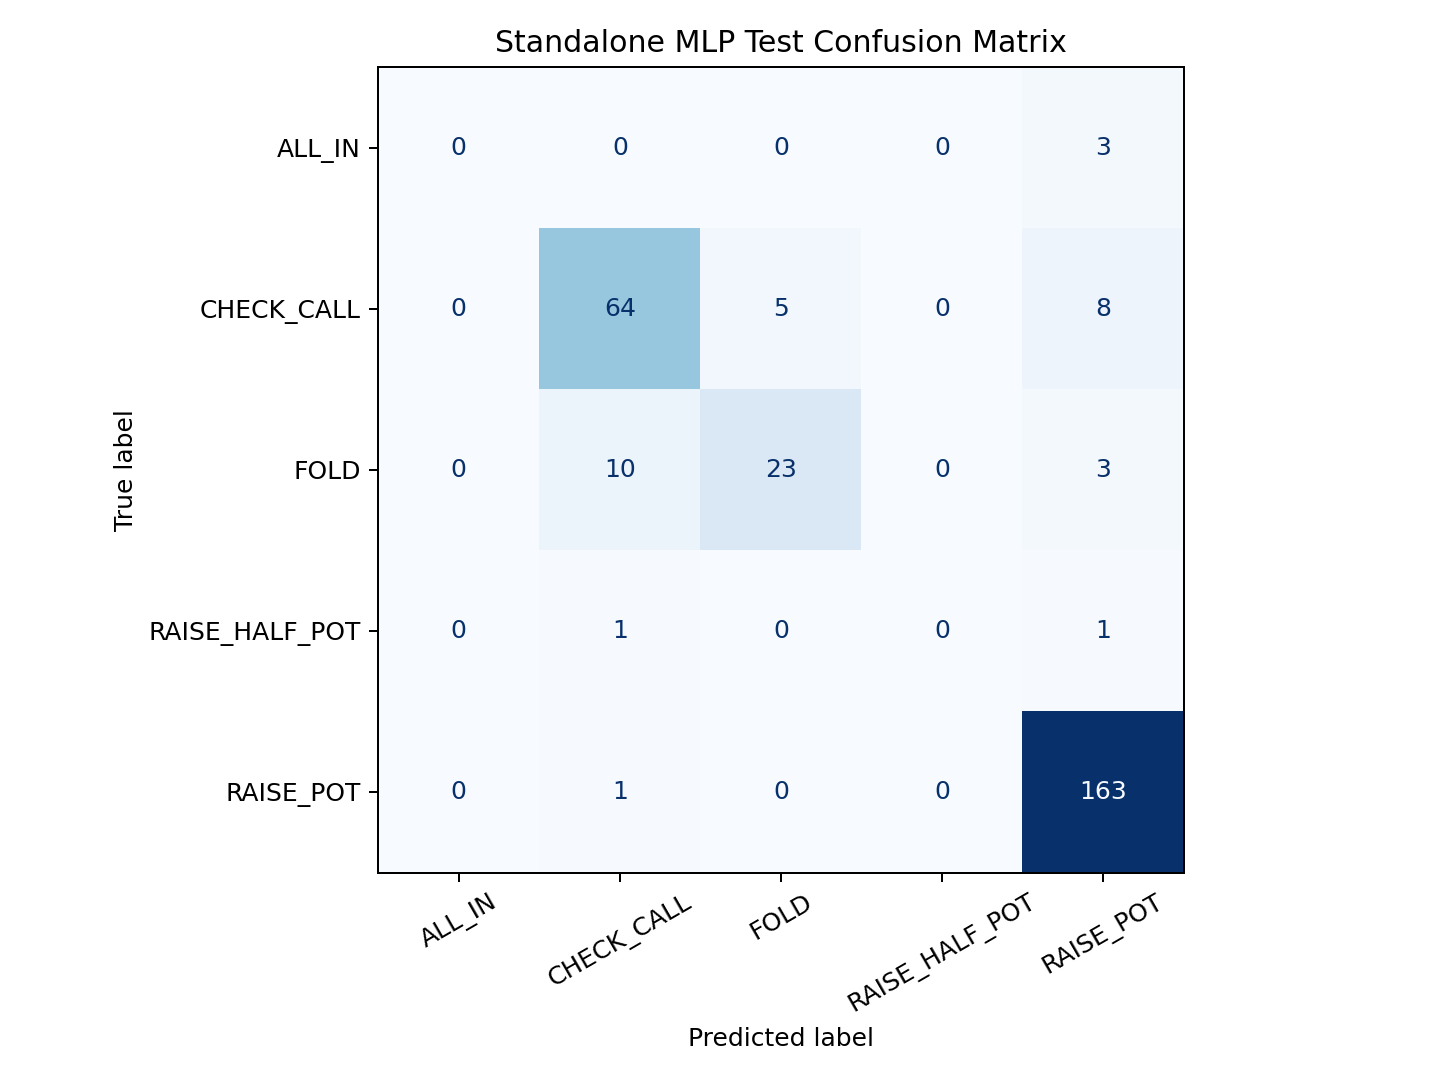
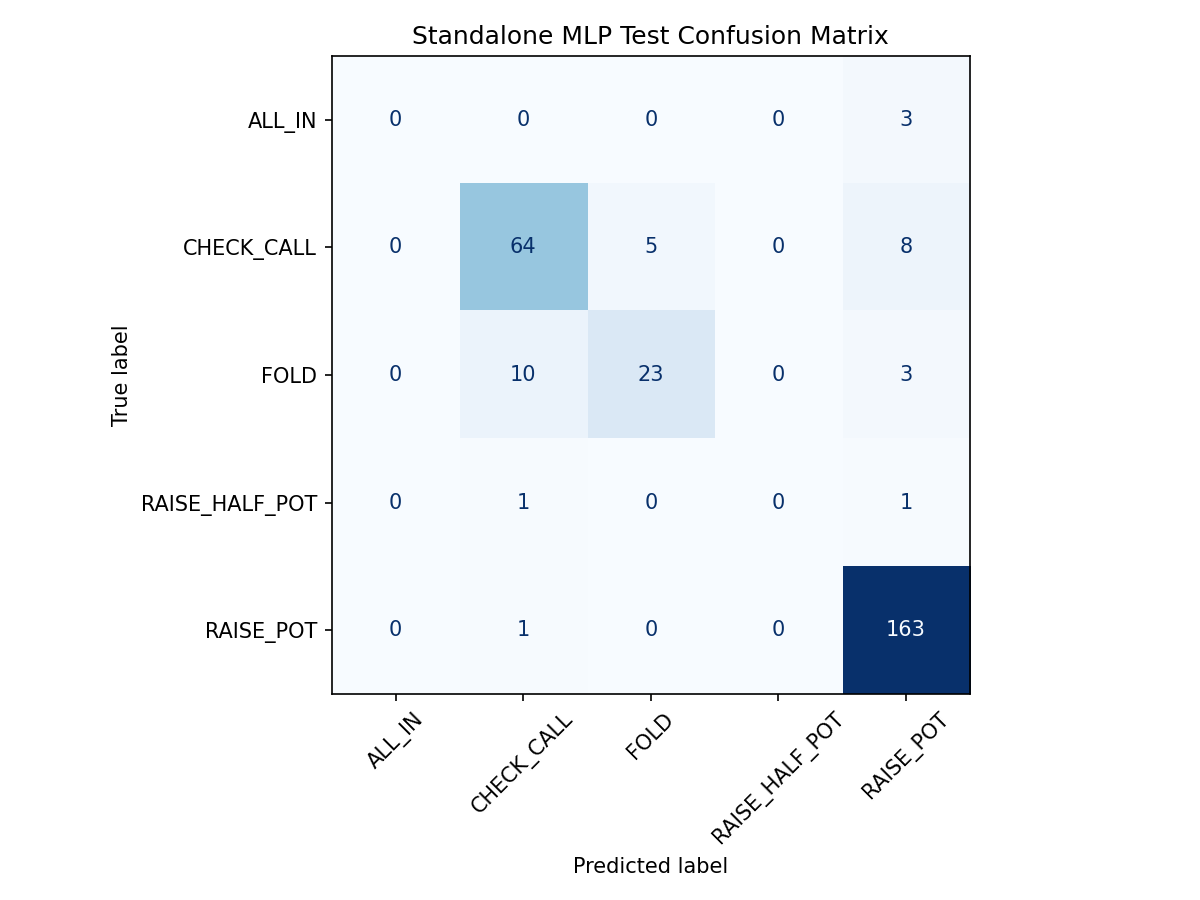
Add MLP artifact generation, grouped split and tuning, make opponent features appendable to phi(state)

diff --git a/classifier.py b/classifier.py
@@ -1,6 +1,14 @@
+import json
+import os
+import sys
+import warnings
+
 import numpy as np
-from sklearn.metrics import accuracy_score, classification_report, confusion_matrix, f1_score
-from sklearn.model_selection import train_test_split
+import sklearn
+from sklearn.exceptions import ConvergenceWarning
+from sklearn.metrics import (accuracy_score, classification_report, confusion_matrix,
+                             ConfusionMatrixDisplay, f1_score)
+from sklearn.model_selection import GridSearchCV, GroupShuffleSplit, train_test_split
 from sklearn.neural_network import MLPClassifier
 from sklearn.pipeline import Pipeline
 from sklearn.preprocessing import StandardScaler
@@ -14,7 +22,7 @@ from agents import RuleBasedAgent
 from match import make_env
 
 
-def collect_data(num_hands=1000, iters=80, seed=0):
+def collect_data(num_hands=1000, iters=80, seed=0, return_groups=False):
     set_seed(seed)
     env = make_env(seed=seed)
     teacher = RuleBasedAgent(iters=iters, seed=seed)
@@ -22,7 +30,8 @@ def collect_data(num_hands=1000, iters=80, seed=0):
     env.set_agents([teacher, opp])
     features = []
     labels = []
-    for _ in range(num_hands):
+    groups = []
+    for hand in range(num_hands):
         state, player = env.reset()
         while not env.is_over():
             agent = env.agents[player]
@@ -30,9 +39,12 @@ def collect_data(num_hands=1000, iters=80, seed=0):
                 features.append(extract_features(state, iters=iters, seed=seed))
                 action = teacher.step(state)
                 labels.append(action.name)
+                groups.append(hand)
             else:
                 action = agent.step(state)
             state, player = env.step(action, agent.use_raw)
+    if return_groups:
+        return np.array(features), np.array(labels), np.array(groups)
     return np.array(features), np.array(labels)
 
 
@@ -53,8 +65,9 @@ def train_classifier(num_hands=1000, iters=80, seed=0):
     return clf
 
 
-def train_mlp_classifier(num_hands=1000, iters=80, seed=0):
-    X, y = collect_data(num_hands=num_hands, iters=iters, seed=seed)
+def train_mlp_classifier(num_hands=1000, iters=80, seed=0, group_split=False,
+                         hidden_layer_sizes=(32,), save=True, out_dir='experiments'):
+    X, y, groups = collect_data(num_hands=num_hands, iters=iters, seed=seed, return_groups=True)
     if X.ndim != 2 or len(X) < 2:
         raise ValueError('MLP training requires at least two feature rows')
 
@@ -71,13 +84,20 @@ def train_mlp_classifier(num_hands=1000, iters=80, seed=0):
         and train_count >= len(classes)
     )
     stratify = y if can_stratify else None
-    X_train, X_test, y_train, y_test = train_test_split(
-        X,
-        y,
-        test_size=test_size,
-        random_state=seed,
-        stratify=stratify,
-    )
+    if group_split:
+        splitter = GroupShuffleSplit(n_splits=1, test_size=test_size, random_state=seed)
+        train_idx, test_idx = next(splitter.split(X, y, groups))
+        X_train, X_test = X[train_idx], X[test_idx]
+        y_train, y_test = y[train_idx], y[test_idx]
+        can_stratify = False
+    else:
+        X_train, X_test, y_train, y_test = train_test_split(
+            X,
+            y,
+            test_size=test_size,
+            random_state=seed,
+            stratify=stratify,
+        )
 
     train_classes, train_class_counts = np.unique(y_train, return_counts=True)
     missing_classes = np.setdiff1d(classes, train_classes)
@@ -97,7 +117,7 @@ def train_mlp_classifier(num_hands=1000, iters=80, seed=0):
     model = Pipeline([
         ('scaler', StandardScaler()),
         ('mlp', MLPClassifier(
-            hidden_layer_sizes=(32,),
+            hidden_layer_sizes=hidden_layer_sizes,
             activation='relu',
             solver='adam',
             max_iter=500,
@@ -169,4 +189,115 @@ def train_mlp_classifier(num_hands=1000, iters=80, seed=0):
     if validation_scores is not None:
         print(f'validation scores: {validation_scores}')
 
+    if save:
+        _save_artifacts(results, matrix, labels, loss_curve, validation_scores, y, out_dir,
+                        num_hands, iters, seed, hidden_layer_sizes, group_split,
+                        validation_fraction)
+
     return model, results
+
+
+def _save_artifacts(results, matrix, labels, loss_curve, validation_scores, y, out_dir,
+                    num_hands, iters, seed, hidden_layer_sizes, group_split,
+                    validation_fraction):
+    import matplotlib
+    matplotlib.use('Agg')
+    import matplotlib.pyplot as plt
+
+    os.makedirs(out_dir, exist_ok=True)
+    classes, counts = np.unique(y, return_counts=True)
+    steps = np.diff(loss_curve)
+    payload = {
+        'configuration': {
+            'command': (f'train_mlp_classifier(num_hands={num_hands}, iters={iters}, '
+                        f'seed={seed}, group_split={group_split})'),
+            'seed': seed,
+            'num_hands': num_hands,
+            'equity_iterations': iters,
+            'pipeline': ['StandardScaler', 'MLPClassifier'],
+            'hidden_layer_sizes': list(hidden_layer_sizes),
+            'activation': 'relu',
+            'solver': 'adam',
+            'max_iter': 500,
+            'early_stopping': results['early_stopping_enabled'],
+            'validation_fraction': validation_fraction,
+            'n_iter_no_change': 20,
+            'random_state': seed,
+            'group_split_by_hand': group_split,
+        },
+        'environment': {
+            'python': sys.version.split()[0],
+            'numpy': np.__version__,
+            'scikit_learn': sklearn.__version__,
+            'matplotlib': matplotlib.__version__,
+        },
+        'dataset': {
+            'sample_count': results['sample_count'],
+            'feature_count': results['feature_count'],
+            'class_distribution': {str(c): int(n) for c, n in zip(classes, counts)},
+            'training_sample_count': results['training_sample_count'],
+            'test_sample_count': results['test_sample_count'],
+        },
+        'evaluation': {
+            'action_classes': results['action_classes'],
+            'stratified_split': results['stratified_split'],
+            'early_stopping_enabled': results['early_stopping_enabled'],
+            'test_accuracy': results['test_accuracy'],
+            'confusion_matrix': results['confusion_matrix'],
+            'classification_report': results['classification_report'],
+            'training_iterations': results['training_iterations'],
+            'first_loss': loss_curve[0],
+            'final_loss': loss_curve[-1],
+            'loss_generally_decreased': bool(loss_curve[-1] < loss_curve[0]),
+            'decreasing_step_fraction': float(np.mean(steps < 0)) if len(steps) else 0.0,
+            'loss_curve': loss_curve,
+            'validation_scores': validation_scores,
+        },
+        'warnings': [],
+    }
+    header = 'Milestone 2 Proof 1 - Standalone MLP Classifier\n' + '=' * 49 + '\n\n'
+    with open(os.path.join(out_dir, 'mlp_results.txt'), 'w') as f:
+        f.write(header + json.dumps(payload, indent=2) + '\n')
+
+    fig, ax = plt.subplots(figsize=(7, 4.5))
+    ax.plot(loss_curve)
+    ax.set_xlabel('Iteration')
+    ax.set_ylabel('Training loss')
+    ax.set_title('Standalone MLP Training Loss')
+    fig.tight_layout()
+    fig.savefig(os.path.join(out_dir, 'mlp_loss_curve.png'), dpi=150)
+    plt.close(fig)
+
+    fig, ax = plt.subplots(figsize=(8, 6))
+    ConfusionMatrixDisplay(confusion_matrix=matrix, display_labels=labels).plot(
+        cmap='Blues', ax=ax, colorbar=False, xticks_rotation=45)
+    ax.set_title('Standalone MLP Test Confusion Matrix')
+    fig.tight_layout()
+    fig.savefig(os.path.join(out_dir, 'mlp_confusion_matrix.png'), dpi=150)
+    plt.close(fig)
+    print(f'wrote {out_dir}/mlp_results.txt, mlp_loss_curve.png, mlp_confusion_matrix.png')
+
+
+def tune_mlp(num_hands=1000, iters=80, seed=0, group_split=True):
+    X, y, groups = collect_data(num_hands=num_hands, iters=iters, seed=seed, return_groups=True)
+    splitter = GroupShuffleSplit(n_splits=1, test_size=0.2, random_state=seed)
+    train_idx, test_idx = next(splitter.split(X, y, groups))
+    grid = {
+        'mlp__hidden_layer_sizes': [(16,), (32,), (64,), (32, 16)],
+        'mlp__alpha': [1e-4, 1e-3, 1e-2],
+    }
+    pipe = Pipeline([
+        ('scaler', StandardScaler()),
+        ('mlp', MLPClassifier(max_iter=1000, random_state=seed)),
+    ])
+    inner = GroupShuffleSplit(n_splits=3, test_size=0.2, random_state=seed)
+    search = GridSearchCV(pipe, grid, cv=inner, scoring='f1_macro', n_jobs=-1)
+    with warnings.catch_warnings():
+        warnings.simplefilter('ignore', ConvergenceWarning)
+        search.fit(X[train_idx], y[train_idx], groups=groups[train_idx])
+    pred = search.best_estimator_.predict(X[test_idx])
+    print('best params:', search.best_params_)
+    print(f'best cv macro F1: {search.best_score_:.3f}')
+    print(f'held-out accuracy: {accuracy_score(y[test_idx], pred):.3f}')
+    print(f'held-out macro F1: {f1_score(y[test_idx], pred, average="macro"):.3f}')
+    return search

diff --git a/main.py b/main.py
@@ -5,10 +5,10 @@ from rlcard.agents import RandomAgent
 from rlcard.utils import tournament, set_seed
 
 from equity import hand_equity
-from features import extract_features, FEATURE_NAMES
+from features import extract_features, feature_names, FEATURE_NAMES
 from agents import RuleBasedAgent
 from match import make_env, play_match
-from classifier import train_classifier
+from classifier import train_classifier, train_mlp_classifier, tune_mlp
 from train import train
 from qlearn import train_qlearn
 from opponentModeling import OpponentModel, updateFromTrajectory, OPPONENT_FEATURES
@@ -105,6 +105,39 @@ def opponent_demo(num_hands=200, iters=80, seed=0, out_dir='experiments'):
     return model
 
 
+def integrated_demo(num_hands=60, iters=60, seed=0, show=3):
+    set_seed(seed)
+    env = make_env(seed=seed)
+    hero = RuleBasedAgent(iters=iters, seed=seed)
+    villain = RuleBasedAgent(iters=iters, seed=seed + 1)
+    env.set_agents([hero, villain])
+    model = OpponentModel()
+    names = feature_names(with_opponent=True)
+    samples = []
+    for hand in range(num_hands):
+        state, player = env.reset()
+        traj = []
+        while not env.is_over():
+            agent = env.agents[player]
+            action = agent.step(state)
+            if player == 1:
+                traj.append(state)
+                traj.append(action)
+            elif (hand >= num_hands - show and len(samples) < show
+                    and (not samples or samples[-1][0] != hand + 1)):
+                phi = extract_features(state, iters=iters, seed=seed,
+                                       opp_features=model.features())
+                samples.append((hand + 1, phi))
+            state, player = env.step(action, agent.use_raw)
+        updateFromTrajectory(model, traj, env)
+    print(f'state features with opponent model appended ({len(names)} total):')
+    for hand, phi in samples:
+        print(f'  hand {hand}:')
+        for name, value in zip(names, phi):
+            print(f'    {name:16s} {value:.3f}')
+    print(f'\nbase features: {len(FEATURE_NAMES)}   with opponent model: {len(names)}')
+
+
 MODES = {
     'equity': equity_checks,
     'features': feature_demo,
@@ -114,6 +147,9 @@ MODES = {
     'train': train,
     'opponent': opponent_demo,
     'qlearn': train_qlearn,
+    'mlp': train_mlp_classifier,
+    'tune': tune_mlp,
+    'integrated': integrated_demo,
 }
 
 if __name__ == '__main__':

diff --git a/opponentModeling.py b/opponentModeling.py
@@ -11,7 +11,10 @@ OPPONENT_FEATURES = ['opp_vpip', 'opp_pfr', 'opp_agg_flop', 'opp_agg_turn',
                      'opp_agg_river', 'opp_fold_to_bet']
 
 class OpponentModel:
-    def __init__(self, priorAlpha=2.0, priorBeta=2.0):
+    def __init__(self, priorAlpha=2.0, priorBeta=2.0, decay=1.0):
+        self.priorAlpha = priorAlpha
+        self.priorBeta = priorBeta
+        self.decay = decay
         self.stats = {
             'vpip':[priorAlpha, priorBeta],
             'pfr':[priorAlpha, priorBeta],
@@ -23,6 +26,9 @@ class OpponentModel:
 
     def _bump(self, key, success):
         a, b = self.stats[key]
+        if self.decay < 1.0:
+            a = self.priorAlpha + (a - self.priorAlpha) * self.decay
+            b = self.priorBeta + (b - self.priorBeta) * self.decay
         self.stats[key] = [a + (1.0 if success else 0.0),
                            b + (0.0 if success else 1.0)]
 
@@ -55,8 +61,12 @@ def facedRaise(obs):
     toCall = max(obs['all_chips']) - obs['my_chips']
     return toCall > 0
 
-def updateFromTrajectory(OpponentModel, trajectory, env):
-    for state, action in zip(trajectory[0::2], trajectory[1::2]):
+def updateFromTrajectory(model, trajectory, env):
+    for i in range(len(trajectory) - 1):
+        state, action = trajectory[i], trajectory[i + 1]
+        if not isinstance(state, dict) or 'raw_obs' not in state:
+            continue
+        if isinstance(action, dict):
+            continue
         obs = state['raw_obs']
-        name = actionName(action, env)
-        OpponentModel.update(obs, name, facedRaise(obs))
+        model.update(obs, actionName(action, env), facedRaise(obs))

diff --git a/features.py b/features.py
@@ -5,8 +5,17 @@ from equity import hand_equity
 FEATURE_NAMES = ['equity', 'pot_odds', 'spr', 'stack_share',
                  'is_preflop', 'is_flop', 'is_turn', 'is_river', 'position']
 
+OPPONENT_FEATURE_NAMES = ['opp_vpip', 'opp_pfr', 'opp_agg_flop', 'opp_agg_turn',
+                          'opp_agg_river', 'opp_fold_to_bet']
 
-def extract_features(state, position=0.5, iters=200, seed=None):
+
+def feature_names(with_opponent=False):
+    if with_opponent:
+        return FEATURE_NAMES + OPPONENT_FEATURE_NAMES
+    return list(FEATURE_NAMES)
+
+
+def extract_features(state, position=0.5, iters=200, seed=None, opp_features=None):
     obs = state['raw_obs']
     me = obs['current_player']
     equity = hand_equity(obs['hand'], obs['public_cards'], iters=iters, seed=seed)
@@ -21,4 +30,7 @@ def extract_features(state, position=0.5, iters=200, seed=None):
     stage = [0, 0, 0, 0]
     if stage_idx < 4:
         stage[stage_idx] = 1
-    return np.array([equity, pot_odds, spr, stack_share, *stage, position], dtype=float)
+    base = np.array([equity, pot_odds, spr, stack_share, *stage, position], dtype=float)
+    if opp_features is None:
+        return base
+    return np.concatenate([base, np.asarray(opp_features, dtype=float)])
